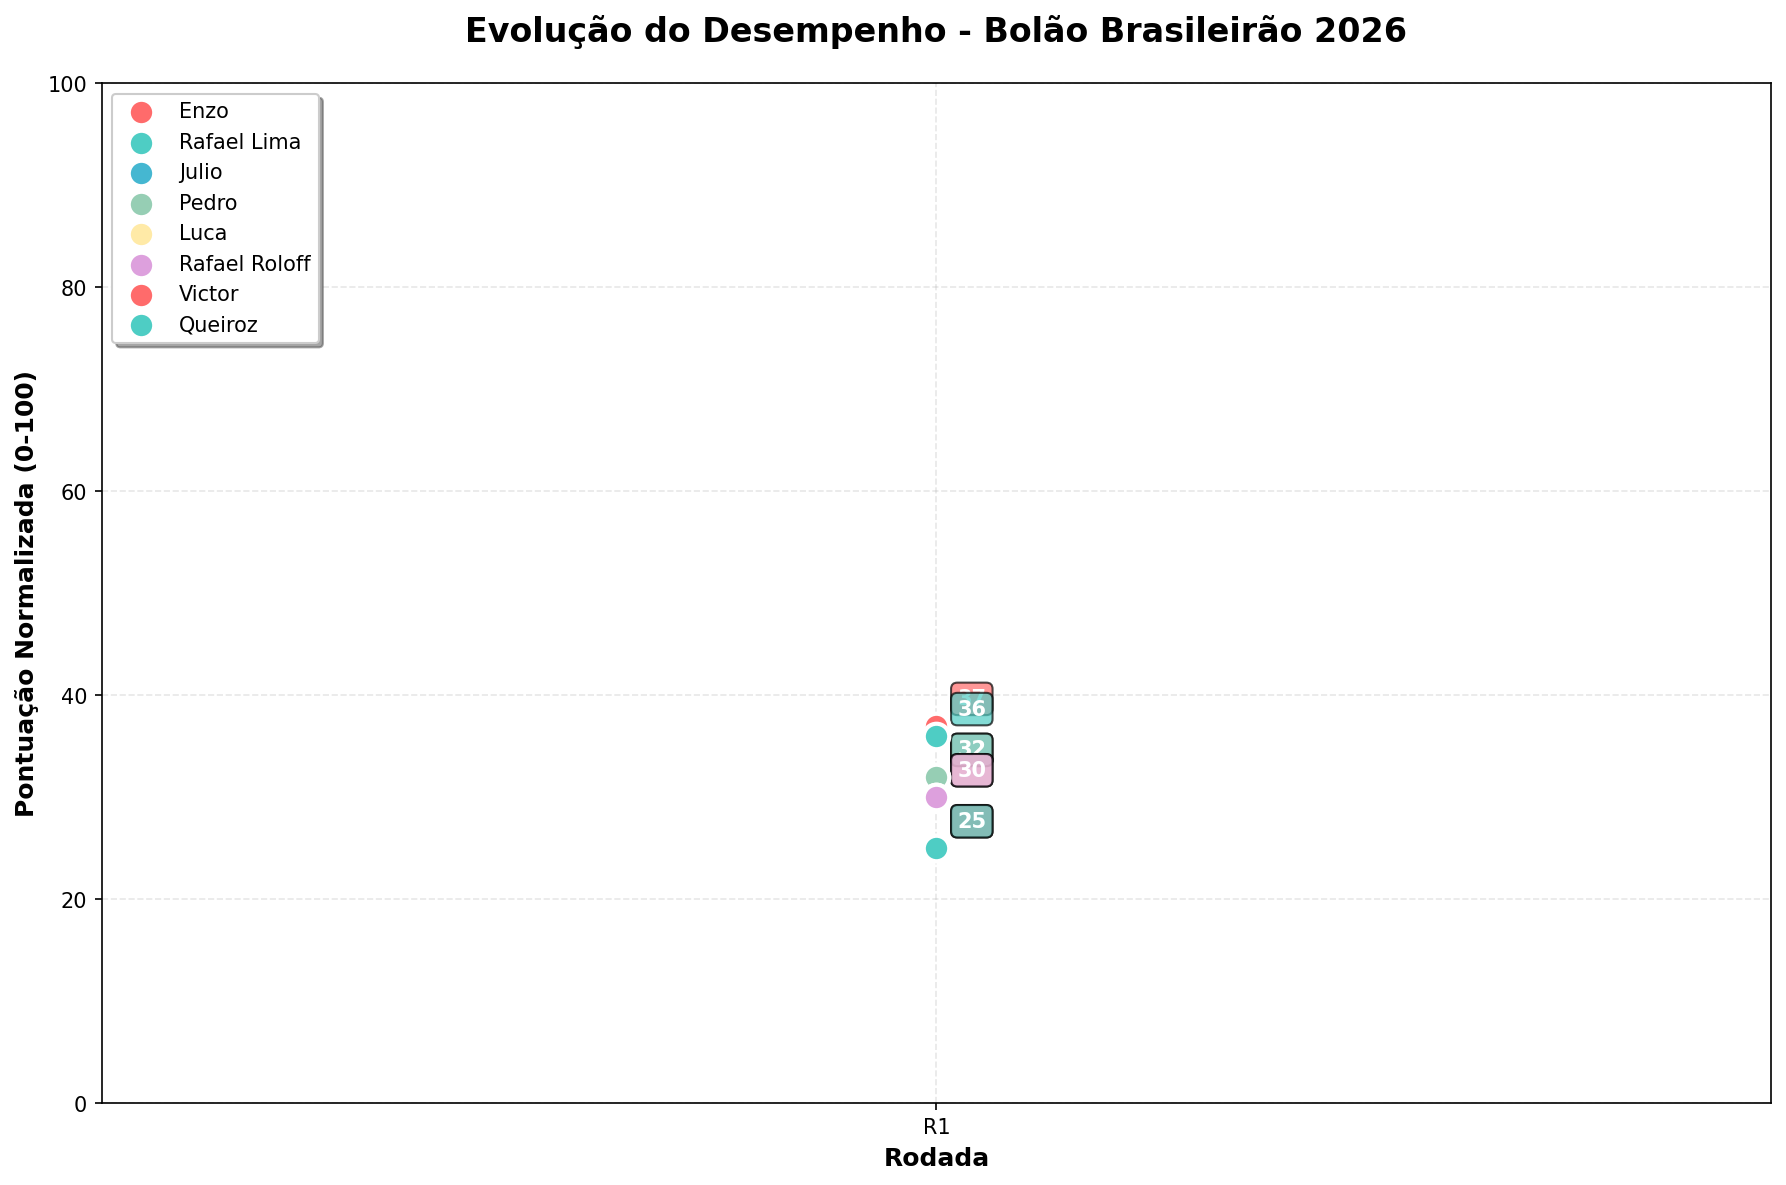
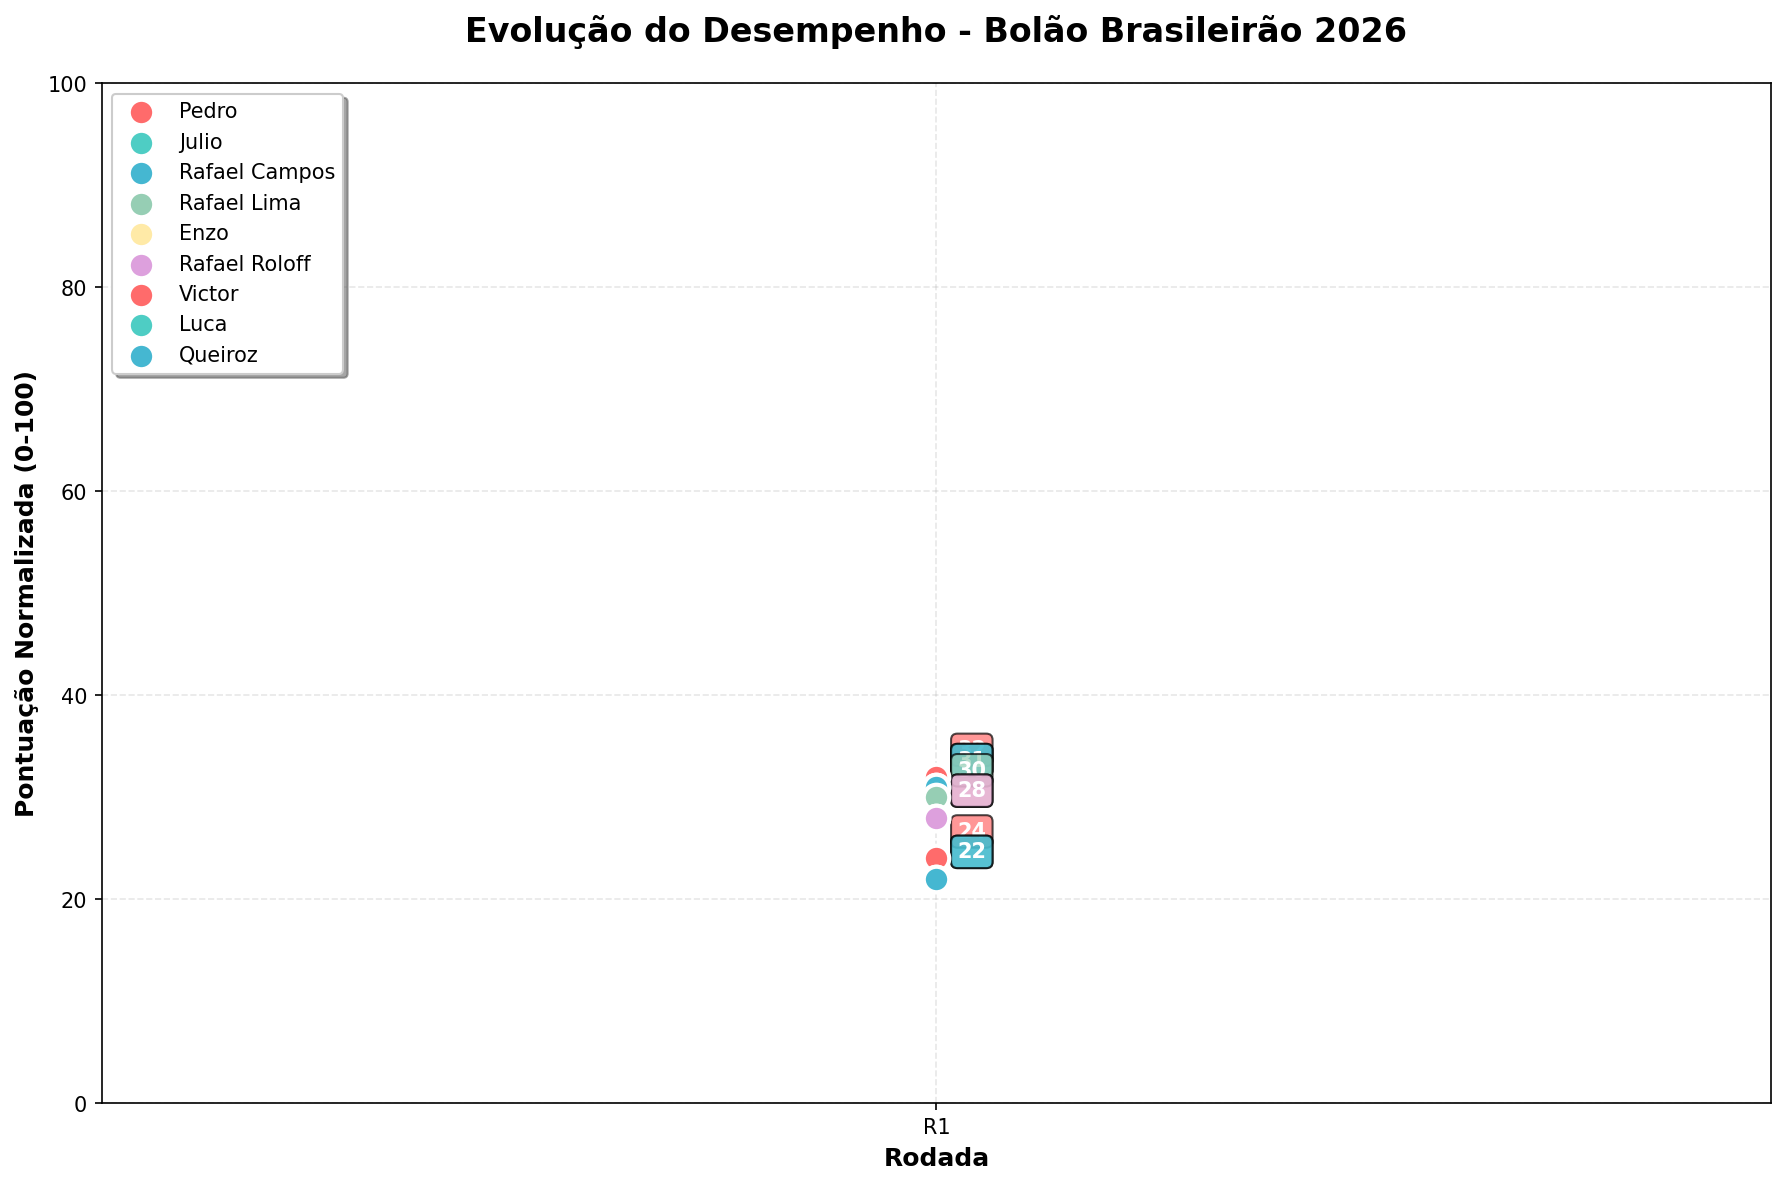
Atualizacao automatica - 30/01/2026 10:15:00,31

Changed region(s): [[0.0616, 0.0937, 0.2156, 0.3435], [0.4927, 0.562, 0.5543, 0.7494]]

diff --git a/README.md b/README.md
@@ -2,50 +2,51 @@
 
 ## 🏆 Resultados Atuais
 
-**Última Atualização:** 2026-01-29 20:57:56
+**Última Atualização:** 2026-01-30 10:11:48
 
-| Time | Real | Enzo | Rafael Lima | Julio | Pedro | Luca | Rafael Roloff | Victor | Queiroz |
-|------|------|------|------|------|------|------|------|------|------|
-| Chapecoense | 1 | 19°(2p) | 19°(2p) | 20°(1p) | 20°(1p) | 19°(2p) | 19°(2p) | 18°(3p) | 20°(1p) |
-| Vitória | 2 | 18°(4p) | 18°(4p) | 16°(6p) | 17°(5p) | 18°(4p) | 18°(4p) | 17°(5p) | 19°(3p) |
-| São Paulo | 3 | 16°(7p) | 14°(9p) | 15°(8p) | 15°(8p) | 14°(9p) | 16°(7p) | 16°(7p) | 17°(6p) |
-| Fluminense | 4 | 4°(20p) | 6°(18p) | 7°(17p) | 4°(20p) | 8°(16p) | 8°(16p) | 10°(14p) | 7°(17p) |
-| Bahia | 5 | 5°(20p) | 4°(19p) | 5°(20p) | 7°(18p) | 5°(20p) | 6°(19p) | 9°(16p) | 4°(19p) |
-| Atlético-PR | 6 | 17°(9p) | 17°(9p) | 17°(9p) | 18°(8p) | 17°(9p) | 17°(9p) | 13°(13p) | 15°(11p) |
-| Bragantino | 7 | 6°(19p) | 10°(17p) | 10°(17p) | 9°(18p) | 13°(14p) | 13°(14p) | 15°(12p) | 18°(9p) |
-| Palmeiras | 8 | 2°(14p) | 3°(15p) | 2°(14p) | 3°(15p) | 3°(15p) | 2°(14p) | 3°(15p) | 3°(15p) |
-| Atlético-MG | 9 | 12°(17p) | 5°(16p) | 4°(15p) | 13°(16p) | 4°(15p) | 4°(15p) | 2°(13p) | 9°(20p) |
-| Botafogo | 10 | 10°(20p) | 8°(18p) | 6°(16p) | 5°(15p) | 11°(19p) | 7°(17p) | 5°(15p) | 11°(19p) |
-| Cruzeiro | 11 | 3°(12p) | 2°(11p) | 3°(12p) | 1°(10p) | 2°(11p) | 3°(12p) | 7°(16p) | 2°(11p) |
-| Mirassol | 12 | 13°(19p) | 11°(19p) | 8°(16p) | 12°(20p) | 12°(20p) | 10°(18p) | 14°(18p) | 8°(16p) |
-| Vasco | 13 | 9°(16p) | 15°(18p) | 11°(18p) | 10°(17p) | 9°(16p) | 11°(18p) | 12°(19p) | 10°(17p) |
-| Grêmio | 14 | 7°(13p) | 7°(13p) | 18°(16p) | 6°(12p) | 6°(12p) | 12°(18p) | 4°(10p) | 5°(11p) |
-| Corinthians | 15 | 8°(13p) | 9°(14p) | 9°(14p) | 8°(13p) | 10°(15p) | 5°(10p) | 8°(13p) | 6°(11p) |
-| Flamengo | 16 | 1°(5p) | 1°(5p) | 1°(5p) | 2°(6p) | 1°(5p) | 1°(5p) | 1°(5p) | 1°(5p) |
-| Internacional | 17 | 14°(17p) | 13°(16p) | 14°(17p) | 14°(17p) | 15°(18p) | 15°(18p) | 6°(9p) | 14°(17p) |
-| Coritiba | 18 | 15°(17p) | 16°(18p) | 19°(19p) | 19°(19p) | 20°(18p) | 14°(16p) | 20°(18p) | 12°(14p) |
-| Santos | 19 | 11°(12p) | 12°(13p) | 12°(13p) | 11°(12p) | 7°(8p) | 9°(10p) | 11°(12p) | 13°(14p) |
-| Remo | 20 | 20°(20p) | 20°(20p) | 13°(13p) | 16°(16p) | 16°(16p) | 20°(20p) | 19°(19p) | 16°(16p) |
-| **TOTAL** | | **276** | **274** | **266** | **266** | **262** | **262** | **252** | **252** |
+| Time | Real | Pedro | Julio | Rafael Campos | Rafael Lima | Enzo | Rafael Roloff | Victor | Luca | Queiroz |
+|------|------|------|------|------|------|------|------|------|------|------|
+| Botafogo | 1 | 5°(16p) | 6°(15p) | 9°(12p) | 8°(13p) | 10°(11p) | 7°(14p) | 5°(16p) | 11°(10p) | 11°(10p) |
+| Chapecoense | 2 | 20°(2p) | 20°(2p) | 19°(3p) | 19°(3p) | 19°(3p) | 19°(3p) | 18°(4p) | 19°(3p) | 20°(2p) |
+| Vitória | 3 | 17°(6p) | 16°(7p) | 18°(5p) | 18°(5p) | 18°(5p) | 18°(5p) | 17°(6p) | 18°(5p) | 19°(4p) |
+| São Paulo | 4 | 15°(9p) | 15°(9p) | 12°(12p) | 14°(10p) | 16°(8p) | 16°(8p) | 16°(8p) | 14°(10p) | 17°(7p) |
+| Fluminense | 5 | 4°(19p) | 7°(18p) | 7°(18p) | 6°(19p) | 4°(19p) | 8°(17p) | 10°(15p) | 8°(17p) | 7°(18p) |
+| Mirassol | 6 | 12°(14p) | 8°(18p) | 11°(15p) | 11°(15p) | 13°(13p) | 10°(16p) | 14°(12p) | 12°(14p) | 8°(18p) |
+| Bahia | 7 | 7°(20p) | 5°(18p) | 4°(17p) | 4°(17p) | 5°(18p) | 6°(19p) | 9°(18p) | 5°(18p) | 4°(17p) |
+| Atlético-PR | 8 | 18°(10p) | 17°(11p) | 17°(11p) | 17°(11p) | 17°(11p) | 17°(11p) | 13°(15p) | 17°(11p) | 15°(13p) |
+| Bragantino | 9 | 9°(20p) | 10°(19p) | 10°(19p) | 10°(19p) | 6°(17p) | 13°(16p) | 15°(14p) | 13°(16p) | 18°(11p) |
+| Palmeiras | 10 | 3°(13p) | 2°(12p) | 3°(13p) | 3°(13p) | 2°(12p) | 2°(12p) | 3°(13p) | 3°(13p) | 3°(13p) |
+| Atlético-MG | 11 | 13°(18p) | 4°(13p) | 5°(14p) | 5°(14p) | 12°(19p) | 4°(13p) | 2°(11p) | 4°(13p) | 9°(18p) |
+| Vasco | 12 | 10°(18p) | 11°(19p) | 14°(18p) | 15°(17p) | 9°(17p) | 11°(19p) | 12°(20p) | 9°(17p) | 10°(18p) |
+| Grêmio | 13 | 6°(13p) | 18°(15p) | 6°(13p) | 7°(14p) | 7°(14p) | 12°(19p) | 4°(11p) | 6°(13p) | 5°(12p) |
+| Corinthians | 14 | 8°(14p) | 9°(15p) | 8°(14p) | 9°(15p) | 8°(14p) | 5°(11p) | 8°(14p) | 10°(16p) | 6°(12p) |
+| Flamengo | 15 | 2°(7p) | 1°(6p) | 1°(6p) | 1°(6p) | 1°(6p) | 1°(6p) | 1°(6p) | 1°(6p) | 1°(6p) |
+| Internacional | 16 | 14°(18p) | 14°(18p) | 15°(19p) | 13°(17p) | 14°(18p) | 15°(19p) | 6°(10p) | 15°(19p) | 14°(18p) |
+| Coritiba | 17 | 19°(18p) | 19°(18p) | 16°(19p) | 16°(19p) | 15°(18p) | 14°(17p) | 20°(17p) | 20°(17p) | 12°(15p) |
+| Santos | 18 | 11°(13p) | 12°(14p) | 13°(15p) | 12°(14p) | 11°(13p) | 9°(11p) | 11°(13p) | 7°(9p) | 13°(15p) |
+| Remo | 19 | 16°(17p) | 13°(14p) | 20°(19p) | 20°(19p) | 20°(19p) | 20°(19p) | 19°(20p) | 16°(17p) | 16°(17p) |
+| Cruzeiro | 20 | 1°(1p) | 3°(3p) | 2°(2p) | 2°(2p) | 3°(3p) | 3°(3p) | 7°(7p) | 2°(2p) | 2°(2p) |
+| **TOTAL** | | **266** | **264** | **264** | **262** | **258** | **258** | **250** | **246** | **246** |
 
 ### 🏅 Classificação Final (pontuação normalizada 0-100)
 
-🥇 **Enzo**: 37 pontos<br>
-🥈 **Rafael Lima**: 36 pontos<br>
-🥉 **Julio**: 32 pontos<br>
-4. **Pedro**: 32 pontos<br>
-5. **Luca**: 30 pontos<br>
-6. **Rafael Roloff**: 30 pontos<br>
-7. **Victor**: 25 pontos<br>
-8. **Queiroz**: 25 pontos<br>
+🥇 **Pedro**: 32 pontos<br>
+🥈 **Julio**: 31 pontos<br>
+🥉 **Rafael Campos**: 31 pontos<br>
+4. **Rafael Lima**: 30 pontos<br>
+5. **Enzo**: 28 pontos<br>
+6. **Rafael Roloff**: 28 pontos<br>
+7. **Victor**: 24 pontos<br>
+8. **Luca**: 22 pontos<br>
+9. **Queiroz**: 22 pontos<br>
 
 ### 📈 Histórico de Desempenho
 
 ![Gráfico de Performance](performance_chart.png)
 
-| Rodada | Enzo | Rafael Lima | Julio | Pedro | Luca | Rafael Roloff | Victor | Queiroz |
-|-------|-------|-------|-------|-------|-------|-------|-------|-------|
-| R1 | 37 | 36 | 32 | 32 | 30 | 30 | 25 | 25 |
+| Rodada | Pedro | Julio | Rafael Campos | Rafael Lima | Enzo | Rafael Roloff | Victor | Luca | Queiroz |
+|-------|-------|-------|-------|-------|-------|-------|-------|-------|-------|
+| R1 | 32 | 31 | 31 | 30 | 28 | 28 | 24 | 22 | 22 |
 
 **Tendência (últimas 2 medições):**
 
@@ -129,10 +130,10 @@ Bônus adicionais:
 - **+3 pontos** se acertar **3 dos 4 últimos colocados** (posições 17–20)
 
 **Pontuação total mínima possível:** 200 pontos
-**Pontuação total máxima possível:** 400 pontos
+**Pontuação total máxima possível:** 406 pontos
 
 **Pontuação final normalizada:**
-`pontuação_normalAizada = (pontuação_total - 200) / 2`
+`pontuação_normalizada = (pontuação_total - 200) * 100 / 206`
 O resultado final sempre estará entre 0 e 100.
 
 ## 📈 Histórico e Gráficos
